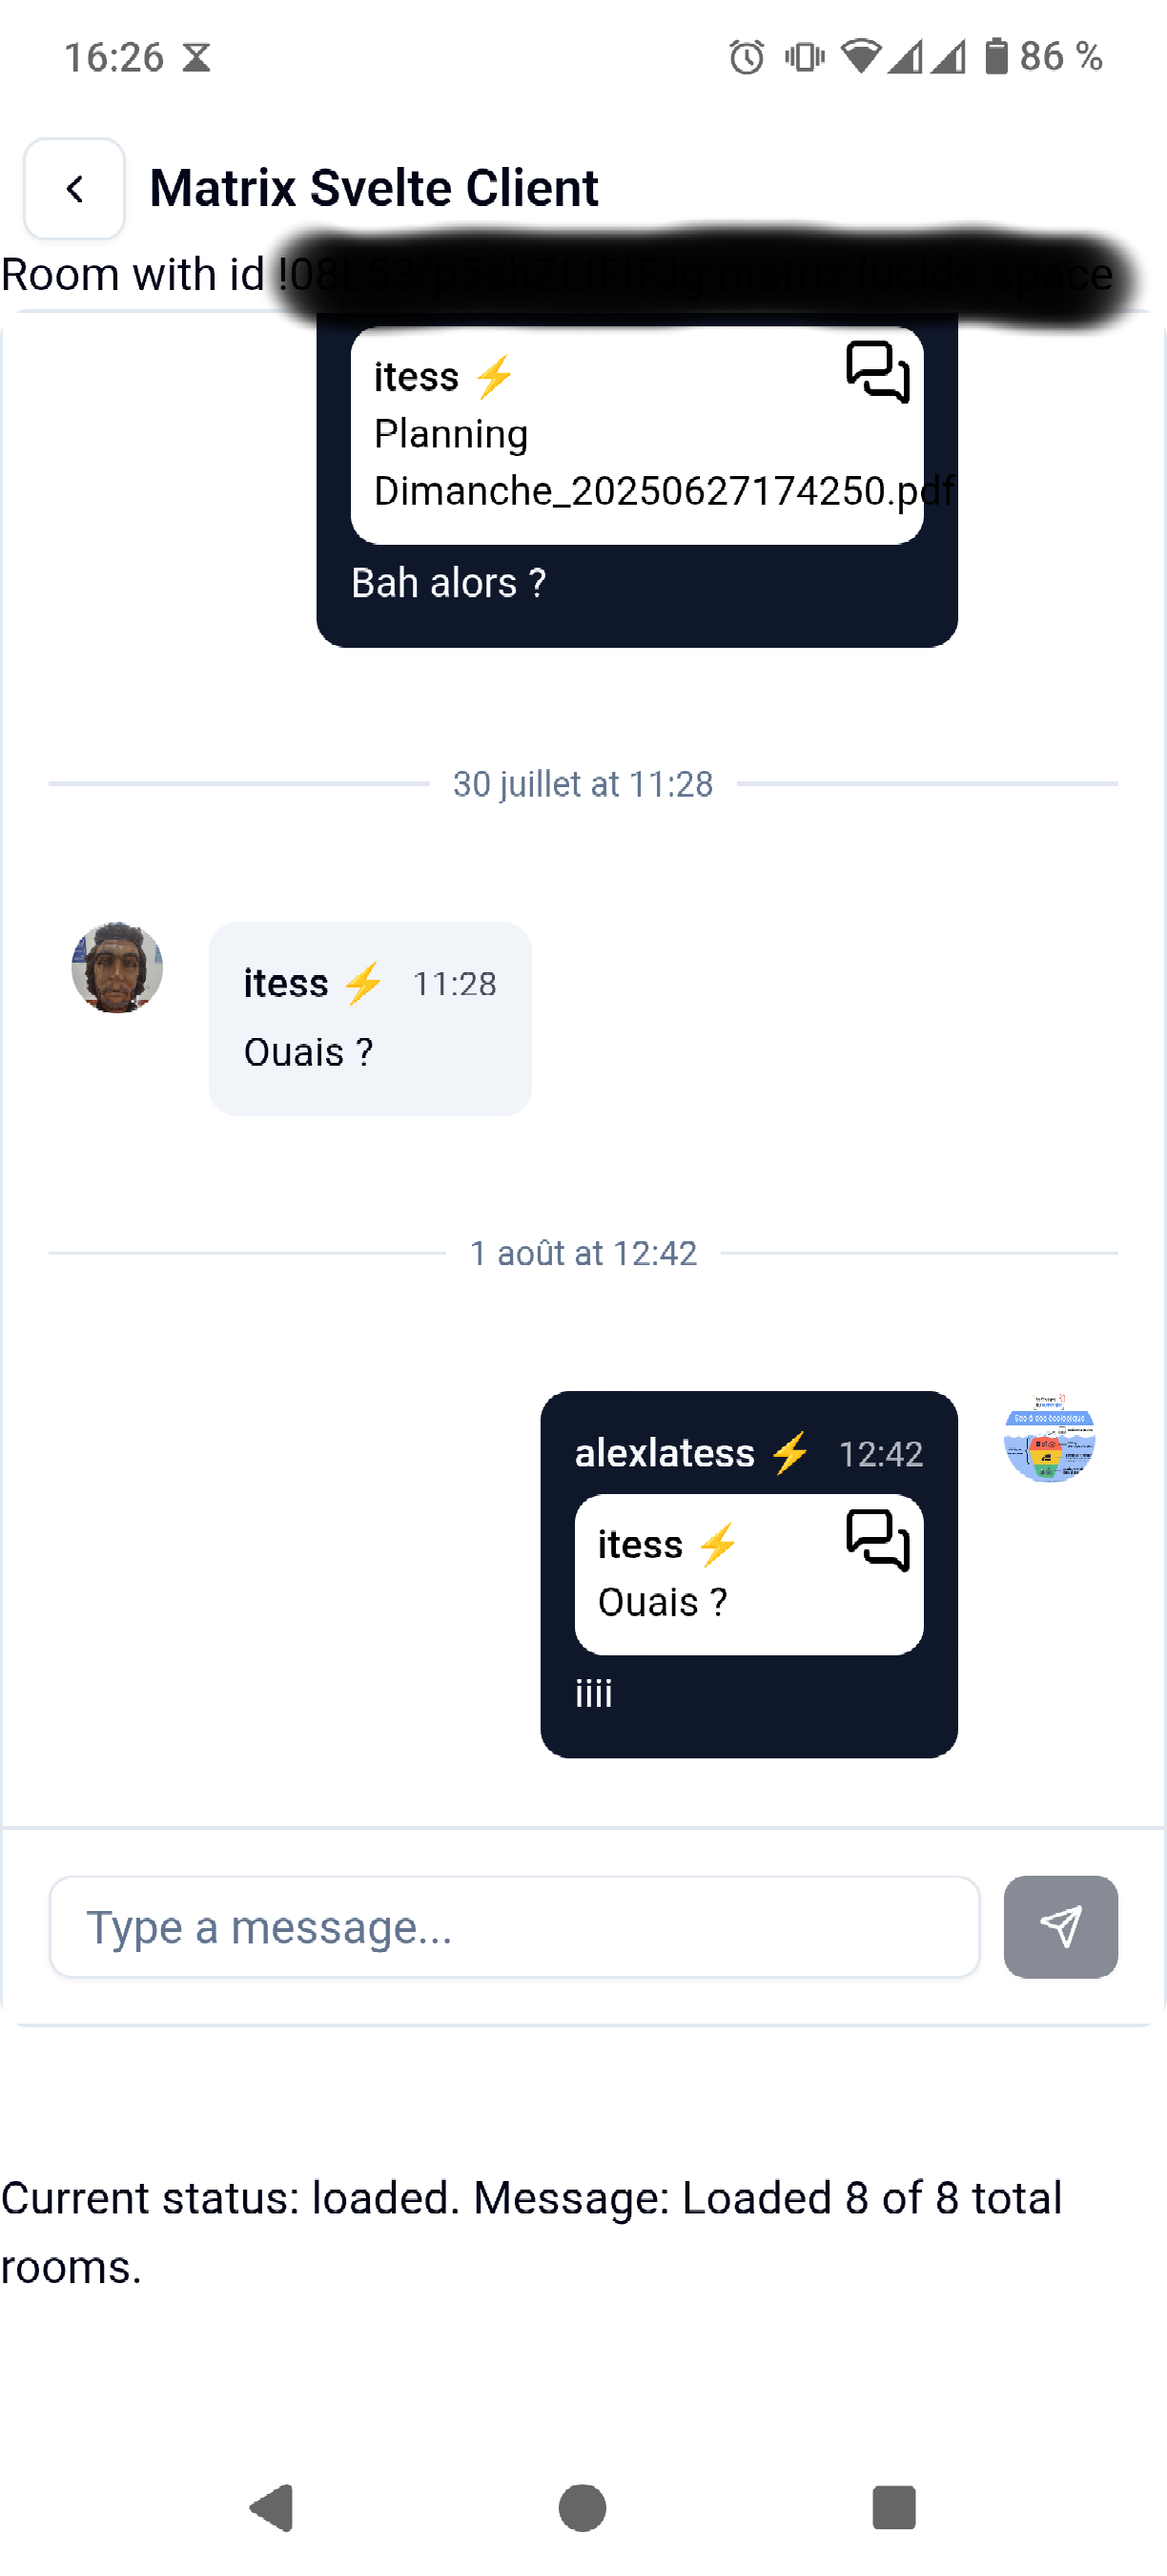
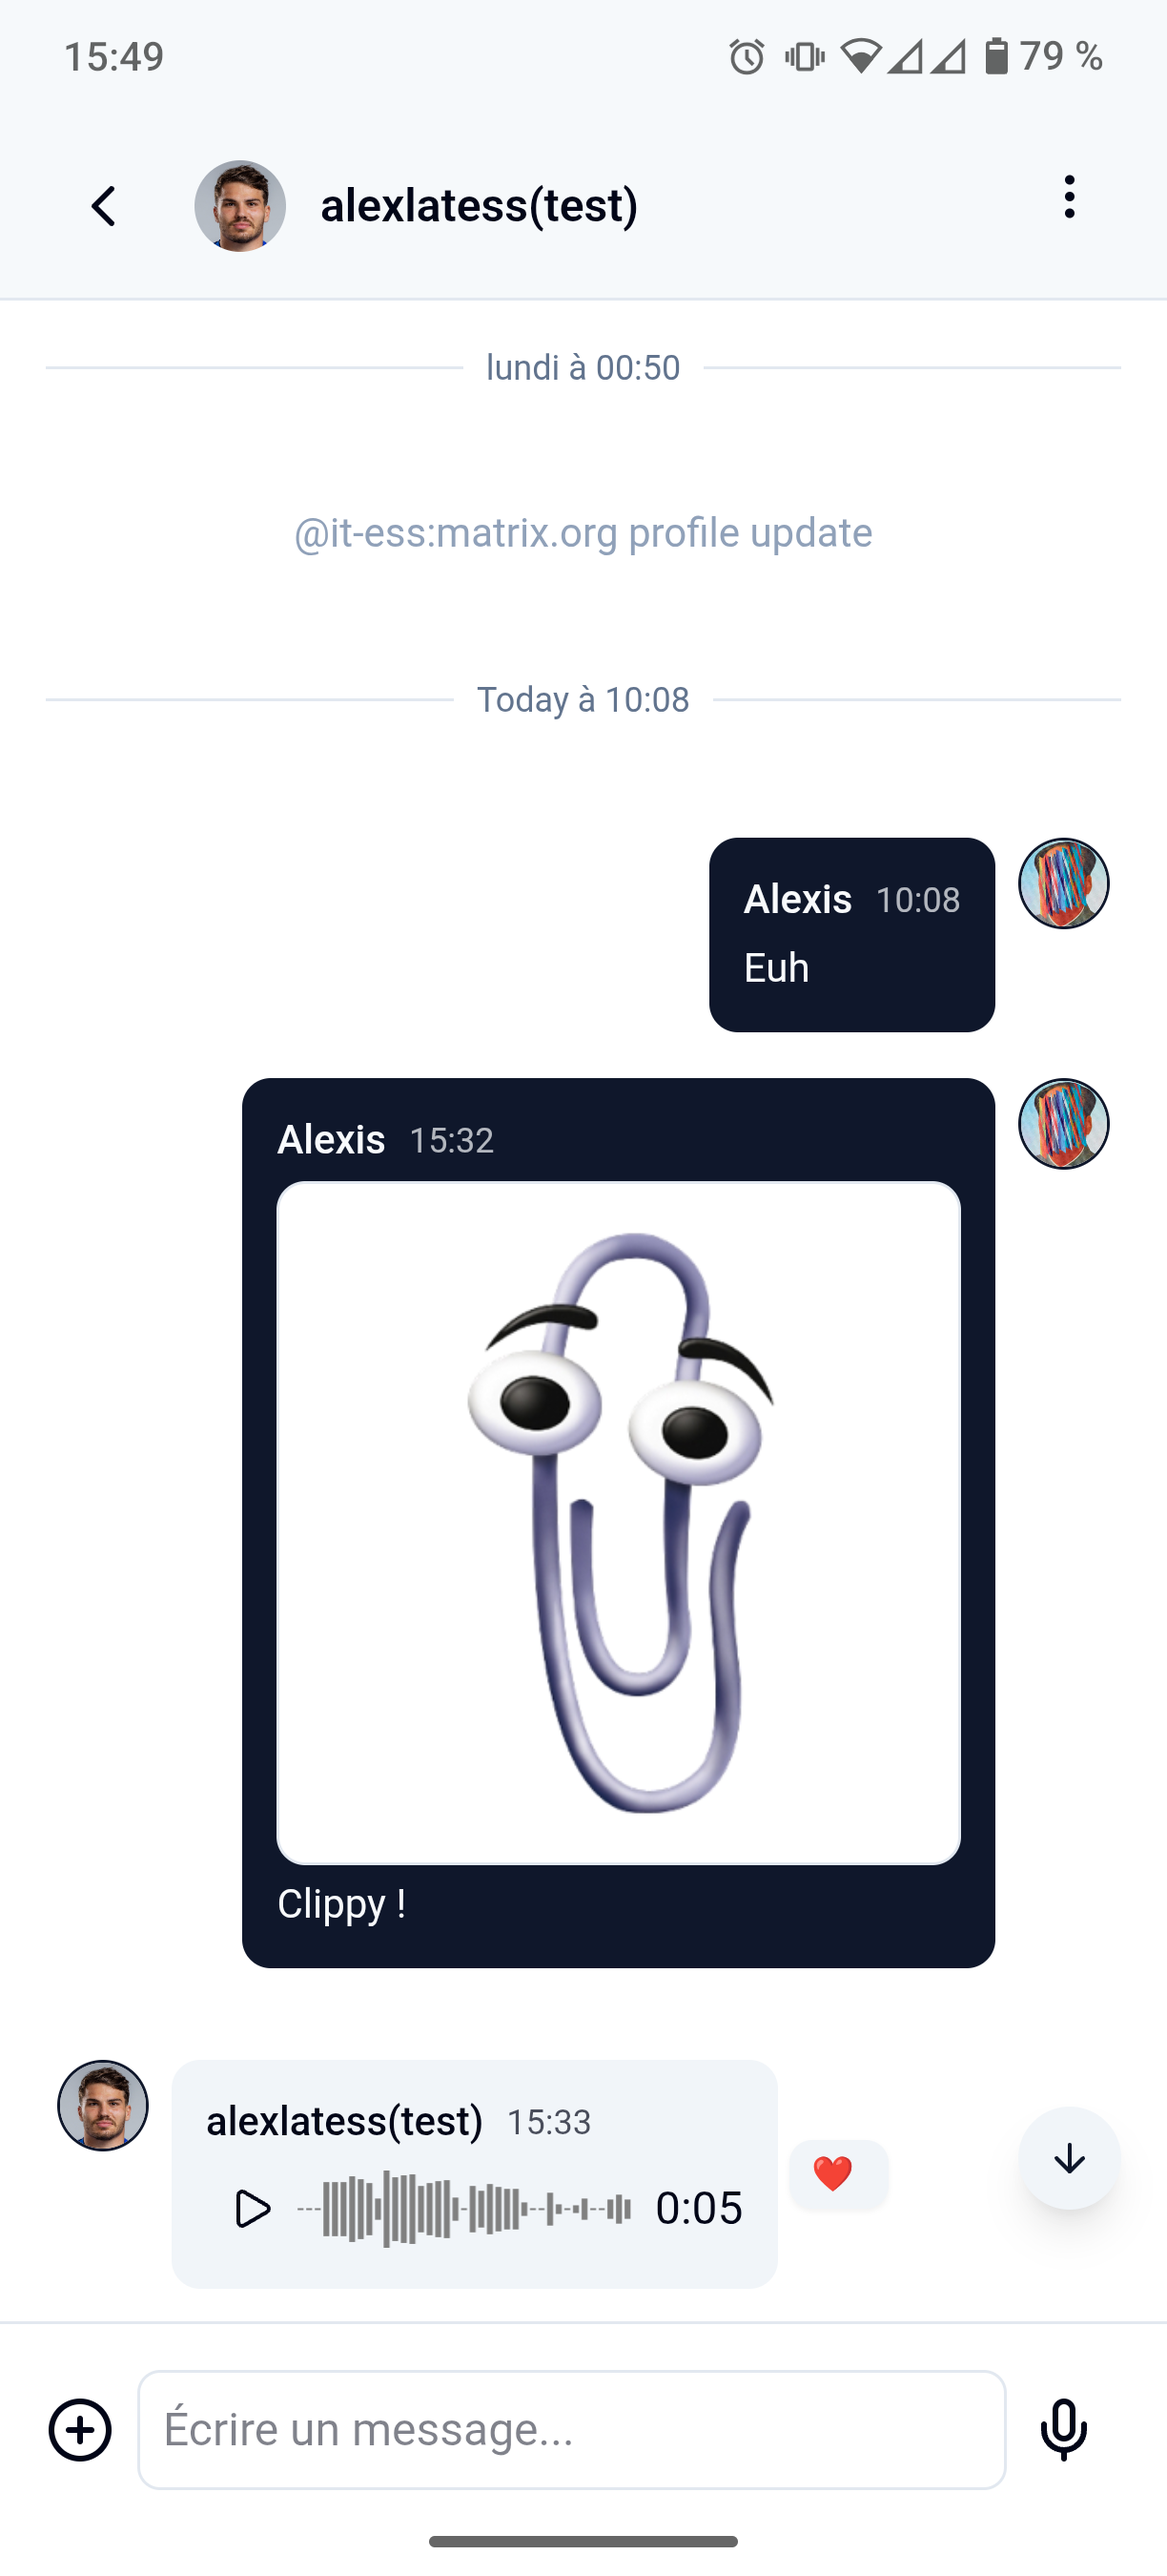
chore: update readme + bump to 0.2.0

diff --git a/README.md b/README.md
@@ -10,7 +10,7 @@ Most of the state data (Rooms list, Room data) is accessible to the frontend thr
 <div style="display: flex; justify-content: space-between; gap: 15px; margin: 0 -5px; max-width: 100%;">
   <img src="assets/room_list.png" alt="Room List" style="width: 32%; height: auto; max-width: 100%; margin: 0 5px;">
   <img src="assets/room.png" alt="Room" style="width: 32%; height: auto; max-width: 100%; margin: 0 5px;">
-  <img src="assets/device_list.png" alt="Device list" style="width: 32%; height: auto; max-width: 100%; margin: 0 5px;">
+  <img src="assets/media_message.png" alt="Media message" style="width: 32%; height: auto; max-width: 100%; margin: 0 5px;">
 </div>
 
 You can try the [example client](https://github.com/IT-ess/tauri-plugin-matrix-svelte/tree/main/example/matrix-svelte-client) by installing the binaries (in the Github release), or by compiling the project locally.

diff --git a/example/matrix-svelte-client/README.md b/example/matrix-svelte-client/README.md
@@ -15,7 +15,8 @@ Build locally, or check Github releases to download the binaries.
 
 ## Caveats
 
-The mobile Push Notifications shouldn't work right now because I didn't bother configuring a dedicated Sygnal Push gateway.
+- The mobile Push Notifications shouldn't work right now because I didn't bother configuring a dedicated Sygnal Push gateway.
+- Recording audio messages isn't possible on Linux, since WebKit2GTK doesn't implement this feature yet.
 
 # Implementation details
 
